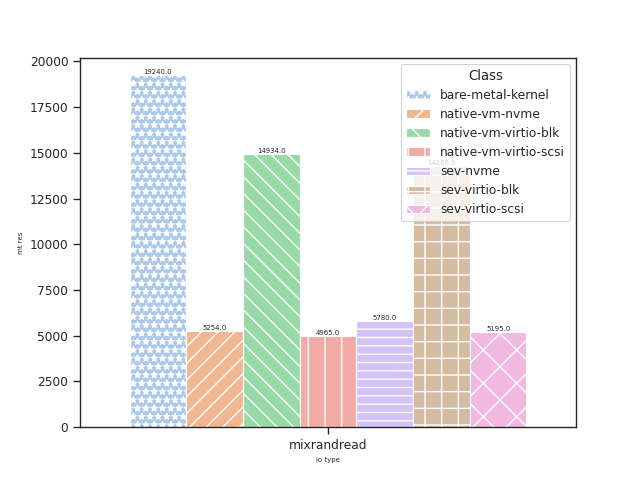
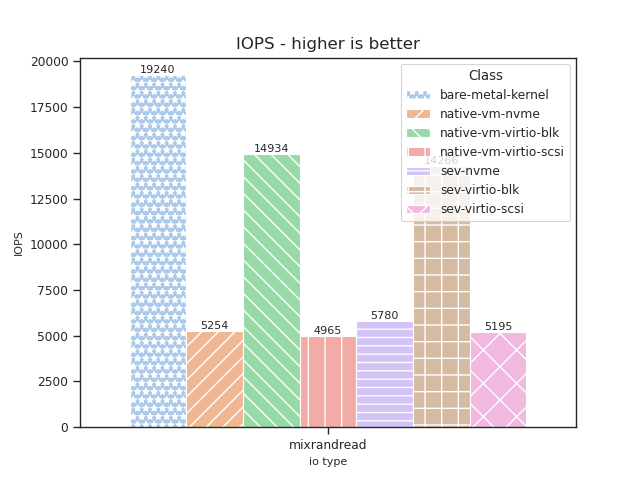
--wip-- [skip ci]

diff --git a/tools/fio-plotters/src/plot/plotter.py b/tools/fio-plotters/src/plot/plotter.py
@@ -12,7 +12,7 @@ import time
 # sns settings
 sns.set_style("whitegrid")
 sns.set_style("ticks", {"xtick.major.size": 8, "ytick.major.size": 8})
-sns.set_context("paper", rc={"font.size": 5, "axes.titlesize": 5, "axes.labelsize": 8})
+sns.set_context("paper", rc={"axes.labelsize": 8, "font.size": 8, "axes.titlesize": 5, "axes.labelsize": 8})
 
 FIRST_COL_LABEL = 'io type'
 SCND_COL_LABEL = 'io stack'
@@ -27,15 +27,37 @@ HEIGHT  = 1.8
 
 HATCHES = ['**', '//', '\\\\', '|', '--', '+', 'x']
 
+BW_TITLE   = 'Bandwidth - higher is better'
+IOPS_TITLE = 'IOPS - higher is better'
+ALAT_TITLE = 'Average Latency - lower is better'
+
+BW_Y_AXIS_LABEL = 'KiB/s'
+IOPS_Y_AXIS_LABEL = 'IOPS'
+ALAT_Y_AXIS_LABEL = 'ns'
 
 def legend_without_duplicate_labels(ax):
     handles, labels = ax.get_legend_handles_labels()
     unique = [(h, l) for i, (h, l) in enumerate(zip(handles, labels)) if l not in labels[:i]]
     ax.legend(*zip(*unique))
 
+
 def add_values_on_bars(ax):
     for container in ax.containers:
-        ax.bar_label(container, fmt='%.1f')
+        ax.bar_label(container, fmt='%.0f')
+
+
+def add_plot_mt_styling(ax, mt):
+    if mt == MT_BW:
+        ax.set_title(BW_TITLE, fontdict={'size': 12})
+        ax.set(ylabel=BW_Y_AXIS_LABEL)
+    elif mt == MT_IOPS:
+        ax.set_title(IOPS_TITLE, fontdict={'size': 12})
+        ax.set(ylabel=IOPS_Y_AXIS_LABEL)
+    elif mt == MT_ALAT:
+        ax.set_title(ALAT_TITLE, fontdict={'size': 12})
+        ax.set(ylabel=ALAT_Y_AXIS_LABEL)
+    else:
+        assert False, f"invalid measurement type: {mt}"
 
 
 # https://stackoverflow.com/questions/67416696/how-to-add-the-repeated-hatches-to-each-bar-in-seaborn-barplot
@@ -74,6 +96,7 @@ def plot(mt_data_dict, output_dir):
             legend_without_duplicate_labels(plot)
             add_values_on_bars(plot)
             apply_hatches(plot)
+            add_plot_mt_styling(plot, mt)
             fig = plot.get_figure()
             fig.savefig(f'{output_dir}/{mt}-{iot}-out.png')
             print(f'{output_dir}/{mt}-{iot}-out.png')
